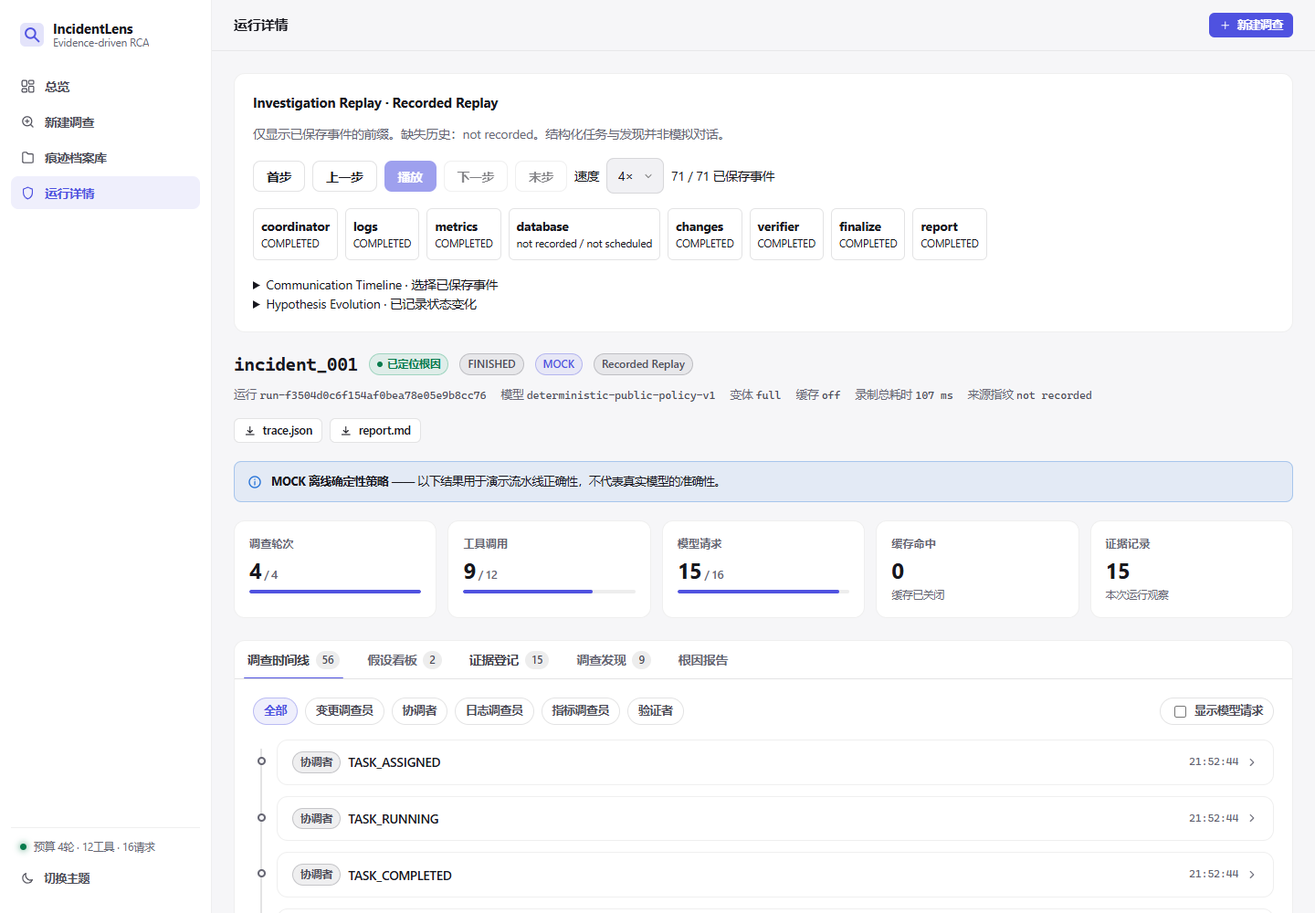
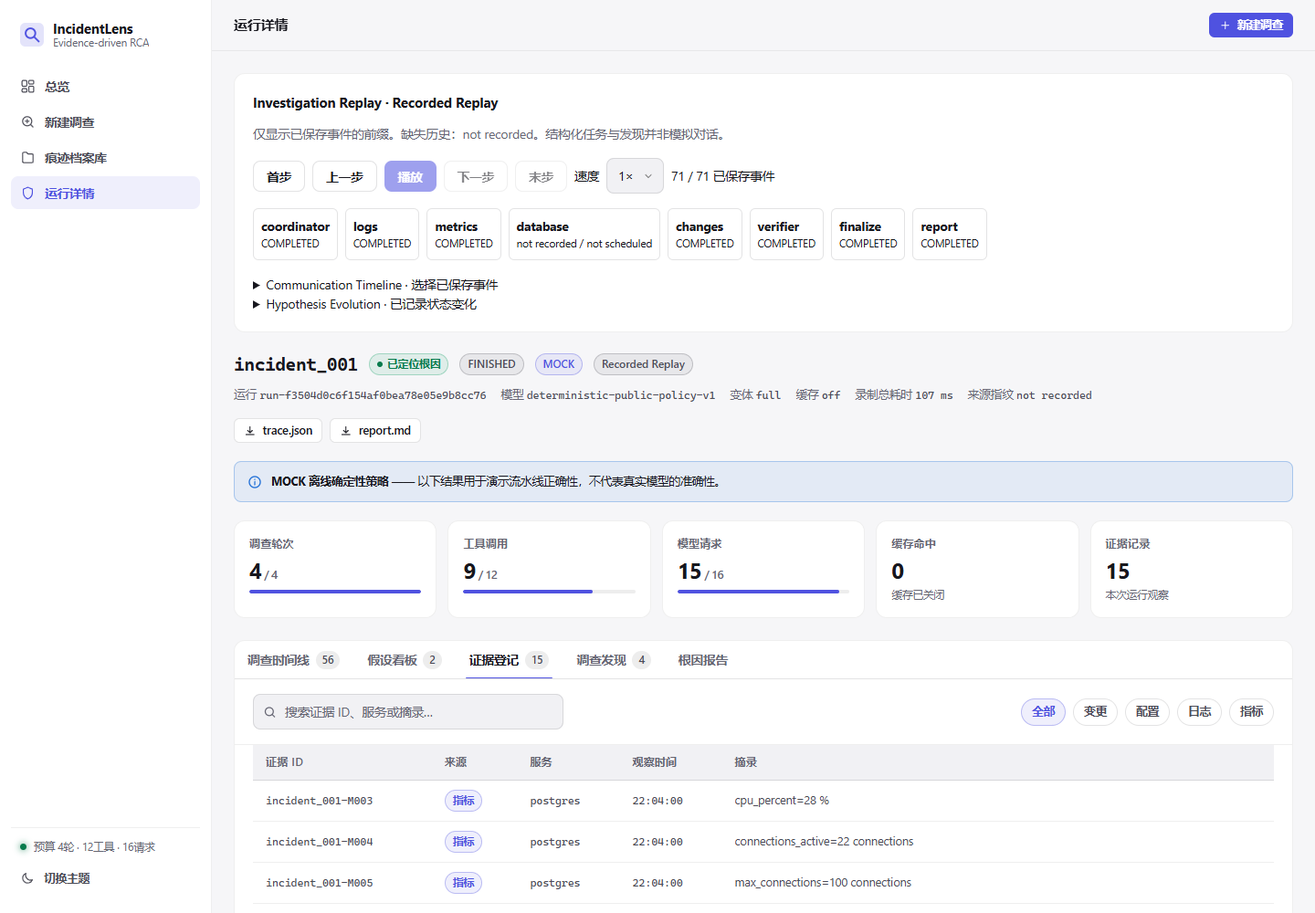
docs(v16): record independent QA, frozen Mock evidence and remaining gates

diff --git a/docs/v16/status.md b/docs/v16/status.md
@@ -1,21 +1,46 @@
-# V1.6 status — M0 in progress
+# V1.6 status — 2026-10-15 final offline delivery
 
-Actual baseline HEAD 62ec53475f4f4c71b9e1cccf33532763c90156f2; main. Initial git status: ?? docs/plans/v16/. Requested docs/v16 plan paths did not exist; authoritative input found at docs/plans/v16/. Original plans unchanged. Python 3.13.5; existing .venv, no dependency upgrades.
+Authority: original docs/plans/v16/CODEX_START_HERE.md and IncidentLens_V1.6_Codex_MultiAgent_Implementation_Plan.md. User plans retained byte-for-byte, untracked as originally found. Requested docs/v16 input paths were absent; located originals under docs/plans/v16.
 
-G0 IN_PROGRESS: full baseline pytest running; Ruff/validate-data/list-cases/Mock CLI/replay exit0. Raw logs: results/v16/preflight/m0-20261015-01/. Replay and CLI benchmark targeted regression running. Contracts and isolated worktrees created; workers not yet started pending baseline completion.
+Baseline HEAD62ec53475f4f4c71b9e1cccf33532763c90156f2, main, original dirty state only ?? docs/plans/v16/. Final validated implementation/source commitc69ac16a63962db4ea3237deeb5c470237b3c872. Subsequent delivery documentation/screenshots do not change that source. No push/publication or paid requests.
 
-G1a/G1b BLOCKED_AWAITING_USER: no paid provider authorization; no new real requests. Historical offline continuation is not live E2E success.
-G2a IN_PROGRESS: original20 seed,0 dev,0 test; fresh audit pending.
-G2b BLOCKED_AWAITING_USER: real double review, independent label owner/family audit/sealing needed.
-G3 NOT_STARTED; G4 BLOCKED_UPSTREAM; G5 NOT_STARTED.
+## Gates
+| Gate | State | Actual evidence / remaining dependency |
+|---|---|---|
+| G0 | PASS | Baseline914passed3skipped, Ruff/data/Mock CLI/Replay exit0; contracts/ownership published |
+| G1a | BLOCKED_AWAITING_USER | No fresh paid positive/negative; exact input hashes/prepared argv saved, semantic acceptance pending |
+| G1b | BLOCKED_AWAITING_USER | Repeats need additional approved budget after G1a |
+| G2a | PASS | Seed20 audited; new Dev10 public/private validators and hashes; actual40Mock attempts under final source; candidate labels pending |
+| G2b | BLOCKED_AWAITING_USER | Actual independent double review, independent family/encoder audit, label owner and held-out sealing absent |
+| G3 | PASS | Mock/fixture engineering only: actual API3traces, prefix playback/provenance, independent QA, Node13passes, desktop/narrow browser; no live-success claim |
+| G4 | BLOCKED_UPSTREAM | Final Mock120pipeline checks pass; no reviewed real four-architecture study/real quality result |
+| G5 | BLOCKED_UPSTREAM | Offline regression/install/demo/independent QA complete; M1/M3 research prerequisites unmet, not full research/course submission acceptance |
 
-## Approvals and human work
-Real provider approval must specify model/config, total request/token/cost/wall limits before any paid probe. Unknown dollar costs remain null. Two actual group members must independently review candidate oracles/citations; third adjudicates disagreement. Coding agents cannot sign. Independent held-out ownership and family audit required before Test claims. Offline work proceeds meanwhile.
+## Actual milestone delivery
+- M0 complete: HEAD/dirty/environment/dependencies/core regressions/frozen contracts/isolated ownership. Python3.13.5 existing venv unchanged.
+- M1 offline preparation complete: preflight rejects misleading live envelopes/continuations, source drift and incomplete STOP; actual retest variant metadata fixed. G1 live steps blocked.
+- M2 engineering complete:10new development candidates and functional prefix Replay. Human reviewed/independent Held-out portion blocked.
+- M3 Stage0 complete: final Seed20x4 + Dev10x4 actual Mock Graph calls, all attempted keys retained, independent reanalysis exactly equal. No Oracle supplied; no efficacy inference.
+- M4 offline engineering QA/install/demo complete; overall research delivery remains blocked by truthful upstream Gates.
 
-## M0 completed — G0 PASS
-Actual full baseline: 914 passed, 3 skipped in267.79s, pytest exit0. Targeted benchmark CLI/Web/artifacts:12 passed in31.18s exit0. Ruff, validate-data, list-cases, Mock positive, Replay, check-environment, benchmark public validation: exit0. Baseline source was not edited during tests. Metadata drift: installed package metadata0.1.0 vs pyproject0.1.3; actual imports point to this checkout src. Final wheel verification required.
+## Final validation and evidence
+Raw root: results/v16/final-qa/20261015-02/.
+- pytest -q -rs:950passed,3skipped,300.79s,exit0 (pytest.log/pytest.exit). Skips: Windows symlink privileges only.
+- ruff check src scripts tests:exit0. Node replay/security:13passed,exit0.
+- scripts/verify_install.py:7commands,exit0, fresh wheel0.1.3 + locked dependencies, CLI Mock/replay. Installed Web assets/health5routes200 from site-packages, no source fallback (installed-web-assets.json).
+- Actual browser API:3Replay200, no interception, no/api/run or page errors; desktop1440x1000/narrow390x844, settled screenshots in browser-final/. Success is saved G0 Mock; missing/failure are explicitly offline saved fixtures.
+- Seed80/Dev40:120unique attempts total,0technical failures,0real HTTP,120unscored; exact saved-score recomputation and byte-identical companions. Seed21RESOLVED59INCONCLUSIVE; Dev12RESOLVED28INCONCLUSIVE. Outcomes are not correctness. experiment-verification.json contains per-group counts/hashes and source/protocol locks.
+- Completed Seed resume exit0, raw/scores/companion hashes unchanged (resume-verification.json). Unknown quality/token/cost values remain null.
+- Final source126file fingerprint unchanged (source-drift-verification.json); approved-run preparation frozen under live-preparation/preflight.json. Preparation executes no provider.
 
-G0 PASS evidence: results/v16/preflight/m0-20261015-01/{pytest.log,pytest.exit,targeted.log,ruff.log,mock.log,replay.log,benchmark-public.log,dependencies.txt,head.txt,input-plan-hashes.json}; docs/v16/contract-freeze.md and ownership.md. Three skips remain Windows symlink capability limitations, not proof of link safety. Independent QA flagged replay evidence authorization, download sibling-link confinement, fresh artifact overwrite and metric semantics for follow-up. No safety guard weakened. Implementation wave A/B/C begins after this record.
+Other retained evidence: results/v16/preflight/m0-20261015-01/; results/v16/integration/20261015-01/; A/B/C/D isolated worktrees and their raw logs. Previous final-qa/20261015-01 suite interrupted for QA corrections and marked SUPERSEDED; its successful old-source install/Seed80 are not final-source evidence. All initial failures retained (test fixture/empty output compatibility, newline drift, prototype DOM fixture). Never overwrite results.
 
-## Independent QA baseline and resolved shared defects
-WP-E read-only identified report sibling-link confinement, unobserved replay evidence, nested private Oracle fragments, and CLI artifact overwrites. Lead implemented boundary checks and25passing targeted tests (lead-boundaries-v2.log, exit0). First run2failed23passed retained in lead-boundaries.log: one test fixture missing stat metadata and existing empty-directory CLI compatibility; both corrected without removing tests. Ruff exit0. Contract v1.1 released. Final integrated QA still pending. A/B/C running isolated, D queued for next slot.
+## Independent QA and fixes
+WP-E found and verified fixes for report-download links, replay observation/private-field/tool-source validation, artifact overwrite, cumulative MERGE duplication, inherited evidence properties, resumed companion validation and technical-failure false-RCA metrics. Lead integrated reviewed commits serially and reran final tests. See qa-release-report.md and ownership.md. No guard/ACL/FinalizeGate/Oracle isolation weakened.
+
+## Pending user / human operations
+1. Approve a concrete real model/config plus total request/token/dollar/wall ceilings. Historical proposal is2full investigations, max32model requests/24tools/3600s each,300s request; monetary/token caps still unspecified. No existing historical budget is reused as authorization.
+2. Two real group members independently review candidate truth/semantic citations; third adjudicates disagreements. Independent label owner and substantive family audit/sealing required for Held-out. Coding agents cannot sign.
+3. After G1a+G2a+budget, run bounded2–4visible Dev x4pilot with all attempts retained. Formal/Test/advantage claims remain blocked until actual stronger evidence exists.
+
+Delivery index: E2E-acceptance.md; dataset-plan-and-review-status.md; benchmark-protocol-and-results.md; replay-demo.md; qa-release-report.md; known-limitations.md; contract-freeze.md; ownership.md. Existing source-checkout Web demo: `.venv/Scripts/python.exe -m incident_lens.cli web`.

diff --git a/docs/v16/qa-release-report.md b/docs/v16/qa-release-report.md
@@ -1,0 +1,27 @@
+# V1.6 independent QA and release report
+
+Coordinator report records independent read-only WP-E review; review did not edit business code or certify live accuracy.
+
+## Findings and resolution
+- Download sibling report link could escape results: Lead added link/reparse ancestor confinement. Simulated reparse negative regression passes; real link creation unavailable Windows1314.
+- Replay accepted unobserved records/private Oracle fragments: successful matching observation and private-field rejection added.
+- Role/tool checks lacked source-type binding: Lead and C added tool/source constraints and negative tests.
+- CLI/save_run could overwrite old artifacts: refuse existing nonempty CLI out before provider construction and exclusively create artifact filenames. Existing metadata-only runner directory/empty CLI compatibility preserved.
+- C cumulative MERGE snapshots duplicated4findings into9rows and repeated hypothesis history: upsert IDs and record actual hypothesis changes; actual multi-MERGE fixture now exact.
+- C inherited constructor/toString properties enabled unavailable evidence: Object.hasOwn in chips and drawer resolution; Node negative regression.
+- V16 companion completed resume skipped validation: CLI always compares existing helper output, preserves bytes and rejects mismatch; CLI-level regression.
+- Identifiable correct mechanism plus STOP failure falsely counted as wrong RCA: unassessable null, all-labelled denominator and unknown/known-false counts retained; missing+RESOLVED remains false.
+
+WP-E independently verified Lead/A/B at2bfa481:38targeted passes,11boundary passes, exact public/private hashes and pending reviews. WP-E verified C prefix playback in actual API browser (no report/evidence initially, rewind hides final data, no /api/run); final Node13passed. Final evaluation review atc69ac16:8tests pass, both original CLI-corruption and STOP_TIMEOUT reproductions resolved. No unresolved findings in these requested scopes. Limits are explicit in known-limitations.md.
+
+## Final execution record
+M0 baseline914passed3skipped267.79s; all preflight commands exit0. Final sourcec69ac16. Full regression, clean wheel verification and final Seed80 run/analysis are recorded in results/v16/final-qa/20261015-02. Prior20261015-01 full suite was intentionally interrupted for QA fixes and is marked SUPERSEDED; prior successful install and Seed80 remain historical evidence, never final-source acceptance. Raw initial failure logs and newline-restoration incident are retained.
+
+G1a/G1b/G2b/G4 remain blocked; G5 cannot mean complete research/course submission while these prerequisites are unmet. Engineering installation/tests/UI may be accepted independently. Final counts/exit codes and hashes will be appended after actual completion. No publish/push occurred.
+
+## Final integrated evidence — source c69ac16
+Final full pytest:950passed3skipped in300.79s,exit0. Ruff0, Node13passed0, clean wheel install7commands0. Wheel0.1.3 installed from a fresh environment; five static Web/health routes200 with module path in site-packages. Main source checkout actual browser3Replay200 (no interception), no/api/run/pageerrors, settled1440x1000/390x844 screenshots. Final evidence root results/v16/final-qa/20261015-02; source-drift-verification.json confirms126source/config/script fingerprints unchanged. All three skips are Windows symlink capability constraints.
+
+Final Seed80+Dev40:0technical failures,120unscored,0realHTTP. Each independently reanalyzed exactly, companion bytes equal; completed Seed resume preserved raw/scores/companion hashes. experiment-verification.json and resume-verification.json retain receipts. A final G0/G2a/G3 engineering PASS does not satisfy G1/G2b/G4 research gates. G5 overall BLOCKED_UPSTREAM; offline engineering QA is complete. No paid success, human review or architecture advantage claimed.
+
+WP-E final independent receipt review atc69ac16 confirms no unresolved engineering blockers in reviewed scope:950/3,Node13,Ruff,freshwheel7checks,installedassets,Mock80+40/exactrecomputation/preservedresume,actualAPI3replays/noexecution,unchangedsource all verified. G0/G2a/G3engineeringPASS; overallG5blockedupstream. Actual symlink privilege limits retained.

diff --git a/docs/v16/benchmark-protocol-and-results.md b/docs/v16/benchmark-protocol-and-results.md
@@ -1,0 +1,18 @@
+# V1.6 benchmark protocol and results
+
+Evidence level: OFFLINE_MOCK. G4 BLOCKED_UPSTREAM. Real pilot needs G1a+G2a+explicit budget; research/Held-out claims additionally need genuine review, independent families and sealing. No paid requests or Test oracle access.
+
+Reused genuine Graph four-variant runner and saved-state analysis. Conditions: strong_single_equivalent_tools, fixed_four_equivalent_tools, dynamic_no_verifier, full; same public dataset/model/protocol/recovery/ceilings, cache off, current_dynamic (CAES bypass), jobs1 and fixed randomized order. Source/data/config/prompt/protocol locks and every failed/interrupted attempt retained. Report technical metrics per all attempts; never infer quality from RESOLVED.
+
+Historical root_cause_correct remains a provisional service/mechanism match gated on technical completion. Separate v16-metrics.json exposes that meaning and leaves semantic root_cause_correct_rate null without complete authentic human grounding review. Unscored labels, unknown tokens/cost and semantic citation support remain null. False-resolution all-labelled denominators are retained: an identifiable technically failed RESOLVED output is unassessable and makes its primary rate null; missing+RESOLVED is known false. unknown_n and known_false_resolution_n expose incompleteness. No CI or significance for unreviewed shared lineage. No required Full superiority.
+
+D isolated Stage0:80actual attempts,20Seed x4,80unique keys,0technical failures,80unscored; analysis recomputation exact, companion byte-identical. See ../evaluation/v16-stage0.md for immutable worktree lock/hash and71evaluation tests/20fairness tests. B isolated Dev40attempts similarly unscored.
+
+Lead integration: source5695203 Seed80+analysis exit0 are retained at results/v16/eval-smoke/integrated-seed-20261015-01 and matching analysis. This source was superseded by independent QA fixes: CLI always validates existing companion on resume; ambiguous technically failed resolutions no longer become false RCA. Final frozen implementationc69ac16 is separately executing Seed80+analysis under suffix20261015-02. Never combine these attempts as repeats or label superseded output final.
+
+Source fairness and semantic/technical limits are independently reviewed by WP-E. Final results and completed-resume byte verification are appended after execution. Concurrent offline test/install load prevents interpreting local elapsed times as architecture performance. Formal runner remains fail-closed.
+
+## Final integrated Stage0 — source c69ac16
+Execution and reanalysis suffix20261015-02 each exit0. Seed80unique attempts20cases x4 (20per variant),80technical completions,21RESOLVED59INCONCLUSIVE; Dev40unique attempts10cases x4 (10per variant),40technical completions,12RESOLVED28INCONCLUSIVE. Both batches unscored/noOracle/noHTTP. Raw complete-attempt denominators and all saved states retained. Exact scores equal and V16 companion bytes identical for both; completed Seed resume exit0 preserves raw/scores/companion bytes. Human semantic quality and label-dependent rates remain null.
+
+Authority: results/v16/final-qa/20261015-02/experiment-verification.json, resume-verification.json, seed80*.log, dev40*.log; raw roots results/v16/eval-smoke/integrated-{seed,dev}-20261015-02 and matching analysis roots. Source drift check passed. These replace no historical runs. Research G4 remains BLOCKED_UPSTREAM.

diff --git a/docs/v16/E2E-acceptance.md b/docs/v16/E2E-acceptance.md
@@ -1,0 +1,16 @@
+# V1.6 real E2E acceptance
+
+G1a/G1b: BLOCKED_AWAITING_USER. New real provider requests:0. No live RCA success or correctness claim.
+
+Implemented offline public-input fingerprinting, saved-artifact screening and executable argument preparation in scripts/v16_e2e_preflight.py; reused existing retest runner and termination evaluator. Corrected retest trace variant metadata for all four runtime aliases. See ../acceptance/v16-offline-e2e-preflight.md for15final tests and267affected regressions, actual historical paths and retained failures.
+
+Preflight only screens technical requirements. Even a real envelope with positive HTTP counts cannot authenticate real execution or semantic correctness; live_verified/g1_accepted remain false. Missing scope, mock, bridge, checkpoint continuation, drift, incomplete STOP, technical failure and result inconsistency cannot establish G1. Current finalized source must be fingerprinted again before approved execution.
+
+## Concrete pending live operation
+Existing public development dataset: results/incidentbench/v1/20261013-deepseek-development-pilot/dataset. Existing historical protocol: results/incidentbench/v1/user-retest-reconciliation/pilot-protocol-retest-v4.json. It specifies deepseek-v4-flash-0731, JSON Schema, cache off, request300s,32model requests,24tools,6rounds,3600s per investigation. This is a historical configuration, not user approval or current compatibility verification.
+
+Proposed minimum: incident_2001 positive and incident_2002 missing, full, one attempt each, fresh unique outputs. Total ceiling proposal:64model requests,48tools,7200s investigation wall; actual transport/repair sends must be audited against enforced request limits. Token and monetary ceilings must be set/approved before execution; price/total cost unverified and remains null. Configuration matching, secret presence and compatibility probe remain unverified. No model substitution or unbounded retries. Repeats for G1b require separate approved additional budget.
+
+After approval: regenerate offline preparation on frozen source; verify model/config without exposing secrets; perform only bounded authorized compatibility/E2E calls; preserve all attempts and failures. Independently inspect positive mechanism/service/causal support and negative evidence insufficiency; no machine-generated human signature. Only then may Lead change G1 status.
+
+Final paid-operation preparation (not executed): results/v16/final-qa/20261015-02/live-preparation/preflight.json. Sourcec69ac16; explicit current public/protocol hashes and prepared positive/negative argv. No credentials read by preparation and no real requests. G1 unchanged BLOCKED_AWAITING_USER.

diff --git a/docs/v16/dataset-plan-and-review-status.md b/docs/v16/dataset-plan-and-review-status.md
@@ -1,0 +1,14 @@
+# V1.6 dataset plan and review status
+
+G2a engineering acceptance: PASS after final integrated QA. G2b BLOCKED_AWAITING_USER.
+
+Original20Seed unchanged. Actual new Dev10:2ordinary,2misleading,2missing,4counterfactual cases (2pairs). New Test0; accepted human labels0; audited independent families0. Shared causal-world-v1 encoder is disclosed; new dates/IDs/workloads are not independent families. No strict blind/generalization claim.
+
+Public data: data/incidentbench_v16_dev. Candidate labels: ignored local_oracles/incidentbench_v16_dev; exact authoring retained in ignored local_oracles/v16-dev-authoring and original B worktree. Do not stage or feed these into runtime, prompts, replay or screenshots. Root copies preserved without overwrite and hashes compared. Public whole-treefbafae81ce91af19f66dba7a7c633fc58ca59e6dbac6bfb8419199d6aa2bda26; privatebd6f31a193b7b92955690da87bb2db3bf324d8159705701733de0dfc448e9e4f.
+
+See ../incidentbench/v16-dataset-audit.md, v16-inventory.csv, v16-validation.md and v16-review-handoff.md. B validators all exit0;88IncidentBench tests passed,1Windows skip. Mock40attempts (10per variant),0oracle access, unscored;12resolved28inconclusive are workflow outcomes only. Main validators and exact hashes independently verified after byte restoration. First integration hash failure retained at results/v16/integration/20261015-01/dev-validation-first.log; newline-restoration.json lists7files. .gitattributes now preserves exact public dataset bytes.
+
+Two real group members must independently review causal sufficiency, chronology, alternatives, missing evidence and semantic citation support with original human-source records. Third reviewer resolves disagreements. Independent label owner, substantive encoder/family audit and sealing remain necessary for G2b. Agents did not sign or invent reviewers. Public inventory intentionally withholds per-case private candidate answers.
+
+## Final Lead acceptance
+G2a PASS engineering: integrated final-source40Dev attempts and exact saved analysis exit0; public/private validation, pending provenance, family/lineage limits independently reviewed. Final source full regression950passed3skipped. G2b still BLOCKED_AWAITING_USER. No accepted labels or new Test are implied.

diff --git a/docs/v16/replay-demo.md b/docs/v16/replay-demo.md
@@ -1,0 +1,11 @@
+# V1.6 replay demonstration
+
+Existing Web and /api/replay reused. Prefix playback has first/previous/play/pause/next/last and1x/2x/4x; recorded workflow/task/event/hypothesis views and authorized evidence provenance inspector. Missing history says not recorded. Real structured events only; no generated dialogue or inferred hidden reasoning. Final state never fills in earlier report or evidence. Private labels remain outside UI.
+
+Implementation/demo instructions and worker screenshots: ../ui/v16-replay.md. Start `.venv/Scripts/python.exe -m incident_lens.cli web --port 8767`, then open http://127.0.0.1:8767/#/run?path=results%2Fv16%2Fpreflight%2Fm0-20261015-01%2Fmock-positive%2Ftrace.json . This is clearly labelled recorded Mock, not live success. Follow the2–3minute saved event demonstration in the UI document, confirming actual event order instead of narrating nonexistent turns.
+
+Lead actual-backend browser receipt: results/v16/integration/20261015-01/browser-integrated.json. Three /api/replay responses200, no interception,0/api/run requests,0page errors. Success uses the real saved G0 Mock run; missing and injected-provider-failure fixtures are copied without modifying their trace content into that integration directory. Desktop1440x1000 and narrow390x844 screenshots retained there. Node10tests and backend11tests independently passed before final QA. Browser fixture-only worker checks are distinguished from this actual API check.
+
+G3 passed independent integrated review for Mock engineering; no fresh live-success trace exists. The injected failure is an offline test fixture, never evidence of an actual external provider outage. Very large trace performance and real-provider reliability are unverified.
+
+Final G3 engineering acceptance: PASS. Sourcec69ac16 Node13+full950passed3skipped; actual nonintercepted browser3traces200, no/api/run/pageerrors. Final screenshots and receipt under results/v16/final-qa/20261015-02/browser-final/; docs/ui/v16-evidence/ updated from these captures after resize transitions settled. Live-success evidence remains absent.

diff --git a/docs/v16/known-limitations.md b/docs/v16/known-limitations.md
@@ -1,0 +1,12 @@
+# V1.6 known limitations
+
+- No new paid API requests: G1a/G1b unaccepted; historical checkpoint continuation is not live success.
+- Seed20+new Dev10 share disclosed synthetic encoder lineage; Test0, accepted human labels0, audited independent families0. No held-out/research inference.
+- Candidate mechanism match and citation existence are distinct from human semantic support. Unknown tokens/cost and unreviewed quality remain null. No claim Full wins.
+- Replay validates internal observation/role/tool/source/incident consistency, not signed authenticity. Older incomplete observation histories are rejected or displayed as not recorded. Actual Windows symlink creation unavailable (error1314); simulated reparse regression exists. Filesystem checks do not provide OS sandboxing or eliminate adversarial TOCTOU races.
+- Saved failure fixtures are offline injected failures. Browser playback never invokes provider/tools. Large-trace performance not benchmarked.
+- Benchmark remains source-editable-checkout dependent; wheel smoke validates normal CLI/replay/Web assets, not standalone benchmark operation. Existing .venv metadata0.1.0 differs from pyproject0.1.3; actual baseline imports use local src. Final clean wheel verification is tracked in QA.
+- Raw results are ignored local artifacts with absolute source/context paths. Original worktrees/private roots must remain available for exact saved-result reanalysis. No relocation protocol or private-label publication is implied.
+- Concurrent local regression/Mock/install workloads make wall latency unsuitable for architecture performance claims. Failure-inclusive request/tool statistics are descriptive engineering evidence only.
+
+Final G5 engineering installation verification passed from fresh wheel0.1.3 and isolated site-packages (7commands plus5Webasset/health checks). This does not make source-dependent benchmark standalone or establish a self-contained wheel Web dataset/config deployment. Source-checkout Web API was independently browser-validated.

diff --git a/docs/v16/ownership.md b/docs/v16/ownership.md
@@ -13,3 +13,7 @@ Lead owns integration, docs/v16, server.py, schemas, configs and shared contract
 Max 3 workers: A/B/C first, D when slot opens; E independently audits integrated implementation. This is bounded concurrency, not five simultaneous workers. G0 precedes implementation. A/B contracts frozen before D preparation; G1a+G2a+explicit budget precede real pilot, G2b precedes formal research claims. Shared-file changes require Lead RFC. Workers commit only owned files; Lead reviews commits and cherry-picks serially. Never bulk-stage private data/results/user plans.
 
 Lead shared-boundary ownership extension: artifacts.py, cli.py, tests/integration/test_v16_artifact_boundaries.py (no worker overlap). Contract1.1 is additive validation; workers notified. No JSON schema/interface migration.
+
+## Actual scheduling / integration history
+E read-only baseline audit ran while G0 suite executed; no implementation began before G0. A/B/C ran truly concurrently in separate worktrees. A/B completion freed slots for D and independent E follow-up. C delivered isolated correction after E found cumulative snapshots. D remained frozen through80attempts/reanalysis. Lead integrated commits serially, verified exact data bytes and independently ran UI/API/tests. Max3workers was respected; no worker delegated.
+A:be4491d ->bf434c5; B:6e651fd ->a75a75c plus exact-byte restorationde092ed; C:a9fe275 ->62a93ef and a36deba ->a9b387e; D:0e361dc ->0af1292. Lead final boundary/eval fixes5695203,c69ac16. E independent read-only findings and resolutions documented in qa-release-report.md. Worktrees and all raw/private evidence retained; no archive/removal.

diff --git a/docs/ui/v16-replay.md b/docs/ui/v16-replay.md
@@ -31,3 +31,6 @@ Fixtures: mock-success is the unmodified public saved G0 Mock trace from MAIN `r
 ## Limits / unmet acceptance
 
 No fresh real-provider success was authorized or obtained, so G3 live-success evidence remains upstream. Browser tested three saved offline fixtures; real API execution and paid-provider reliability are untested. Old traces without observations/hypothesis events intentionally lose unrecoverable historical views. Workflow directions are exposed by actual role/task event selection; no inferred communication arrows or fabricated natural-language messages. Backend path/security integration must be revalidated after Lead cherry-picks. Pure reducer copies prefixes; very large traces beyond these fixtures have not been load-tested.
+
+## Final Lead integration verification
+Final Node13passed and backend Web/replay regression included in full950passed3skipped. Actual non-intercepted backend browser checks3saved traces, no/api/run/pageerrors; final settled desktop/mobile screenshots replace initial worker captures in v16-evidence/. Original captures retained under results/v16/integration/20261015-01/worker-*-before-qa.png. Findings now4unique instead of9cumulative duplicates; unchanged hypothesis snapshots do not create false evolution. Final browser receipts/screenshots: results/v16/final-qa/20261015-02/browser-final/. G3 PASS for recorded Mock/fixture engineering only; no real success demo.
